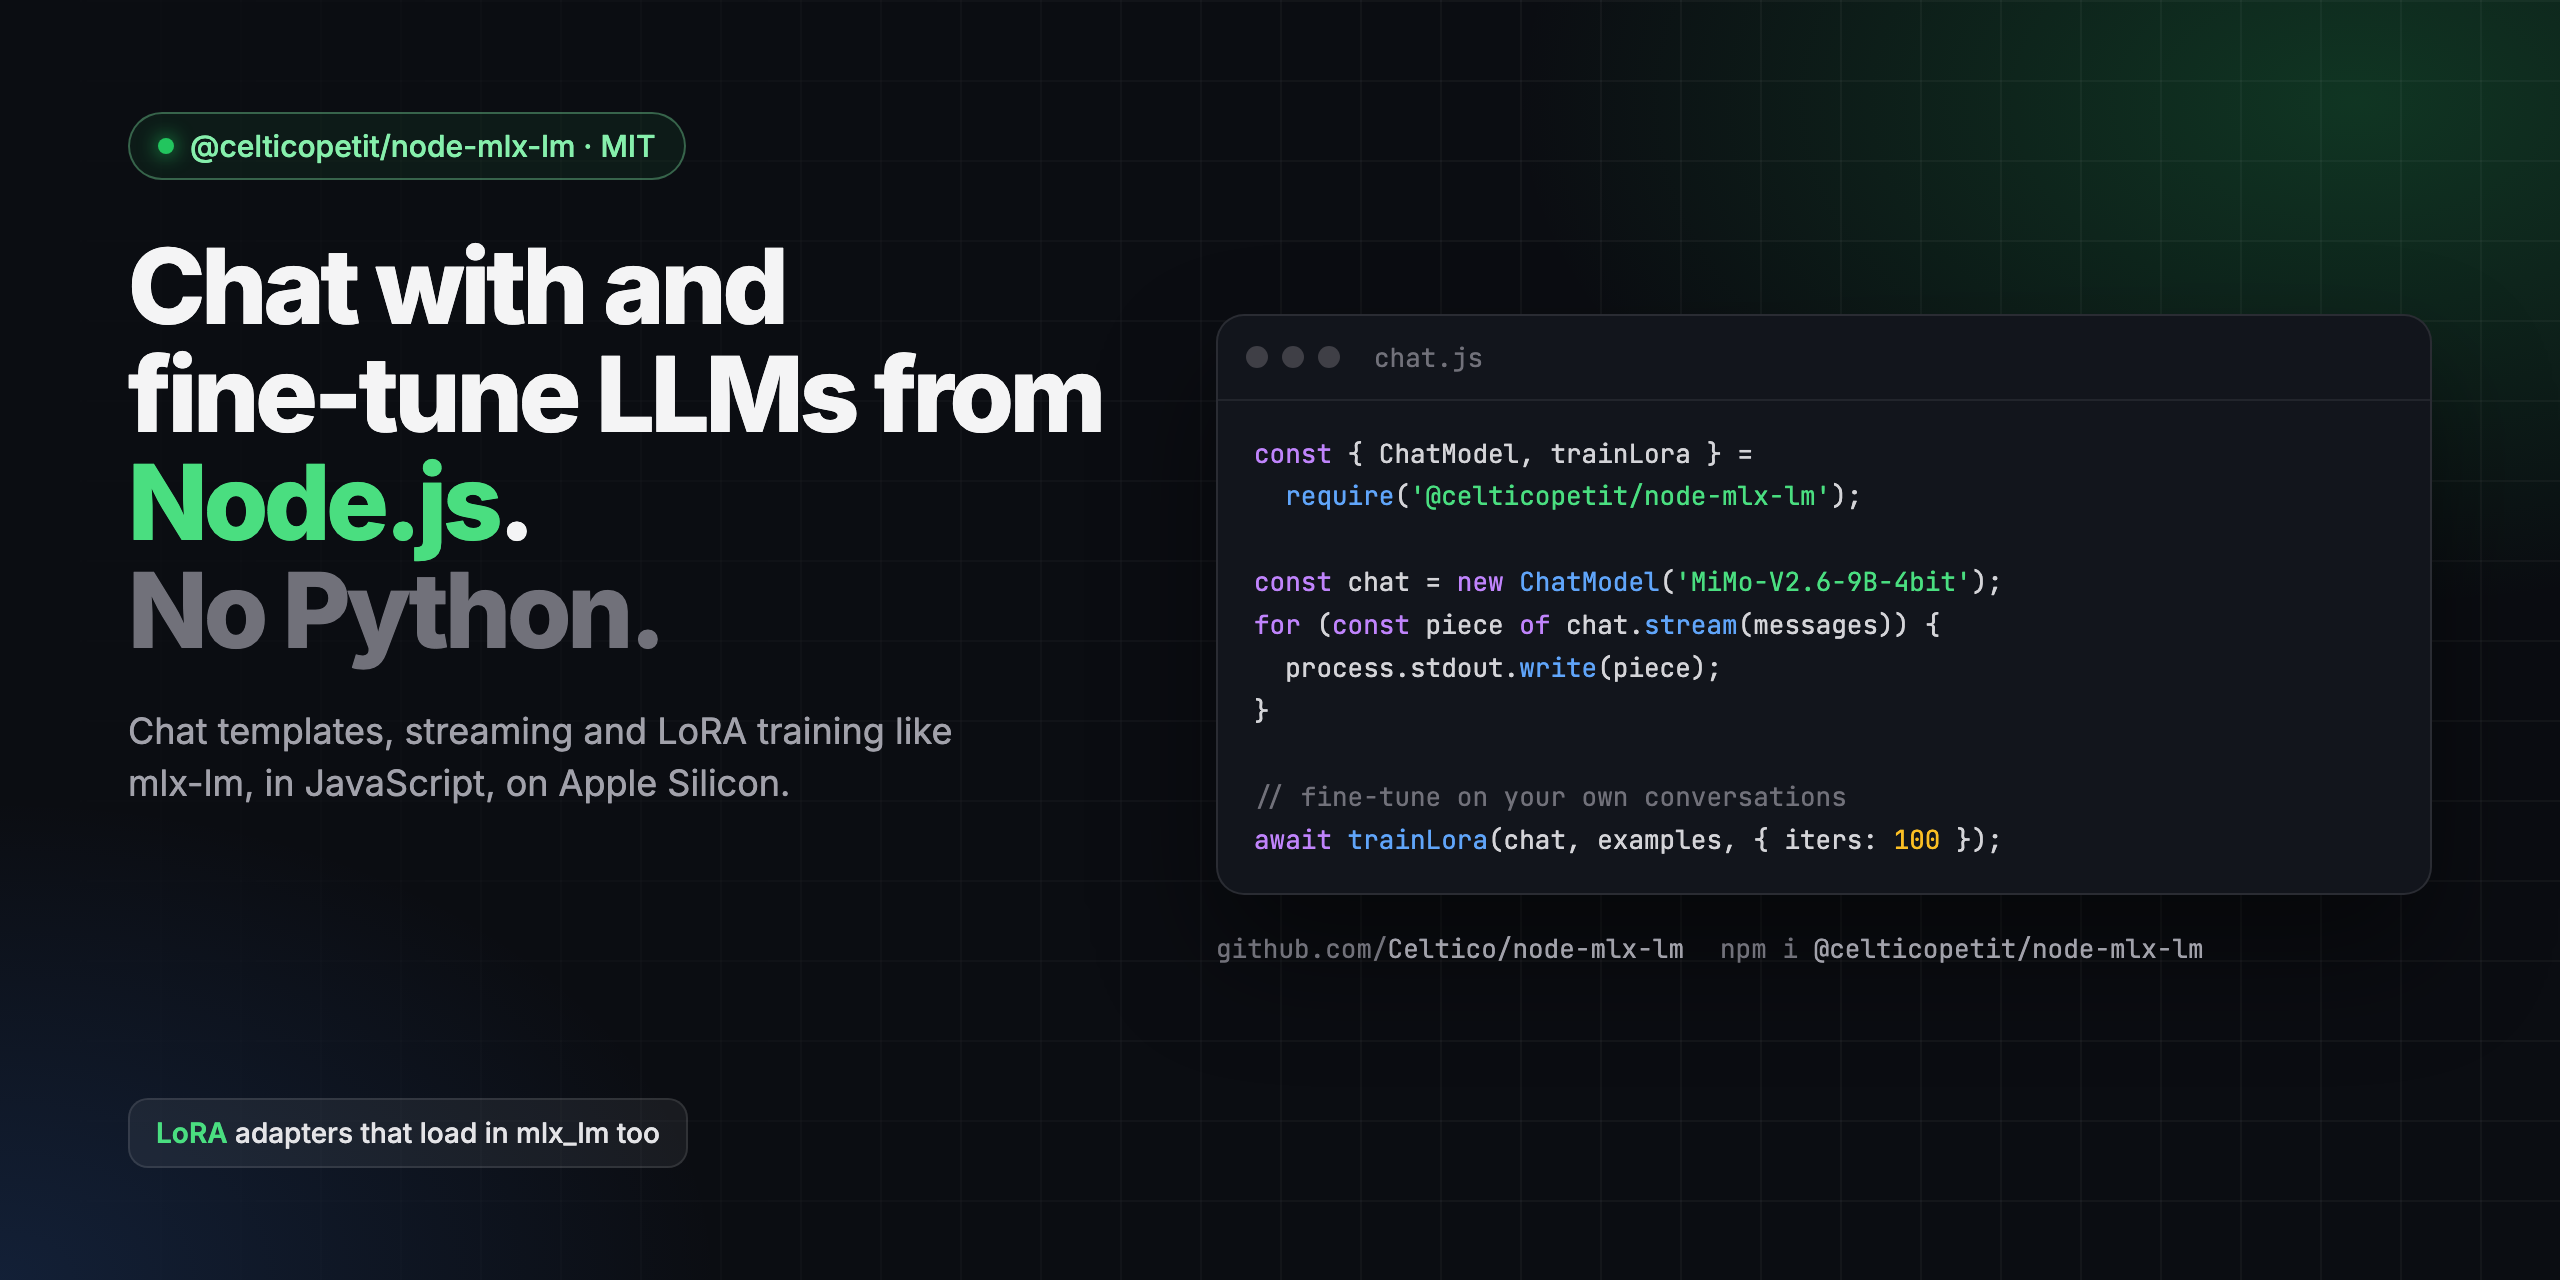
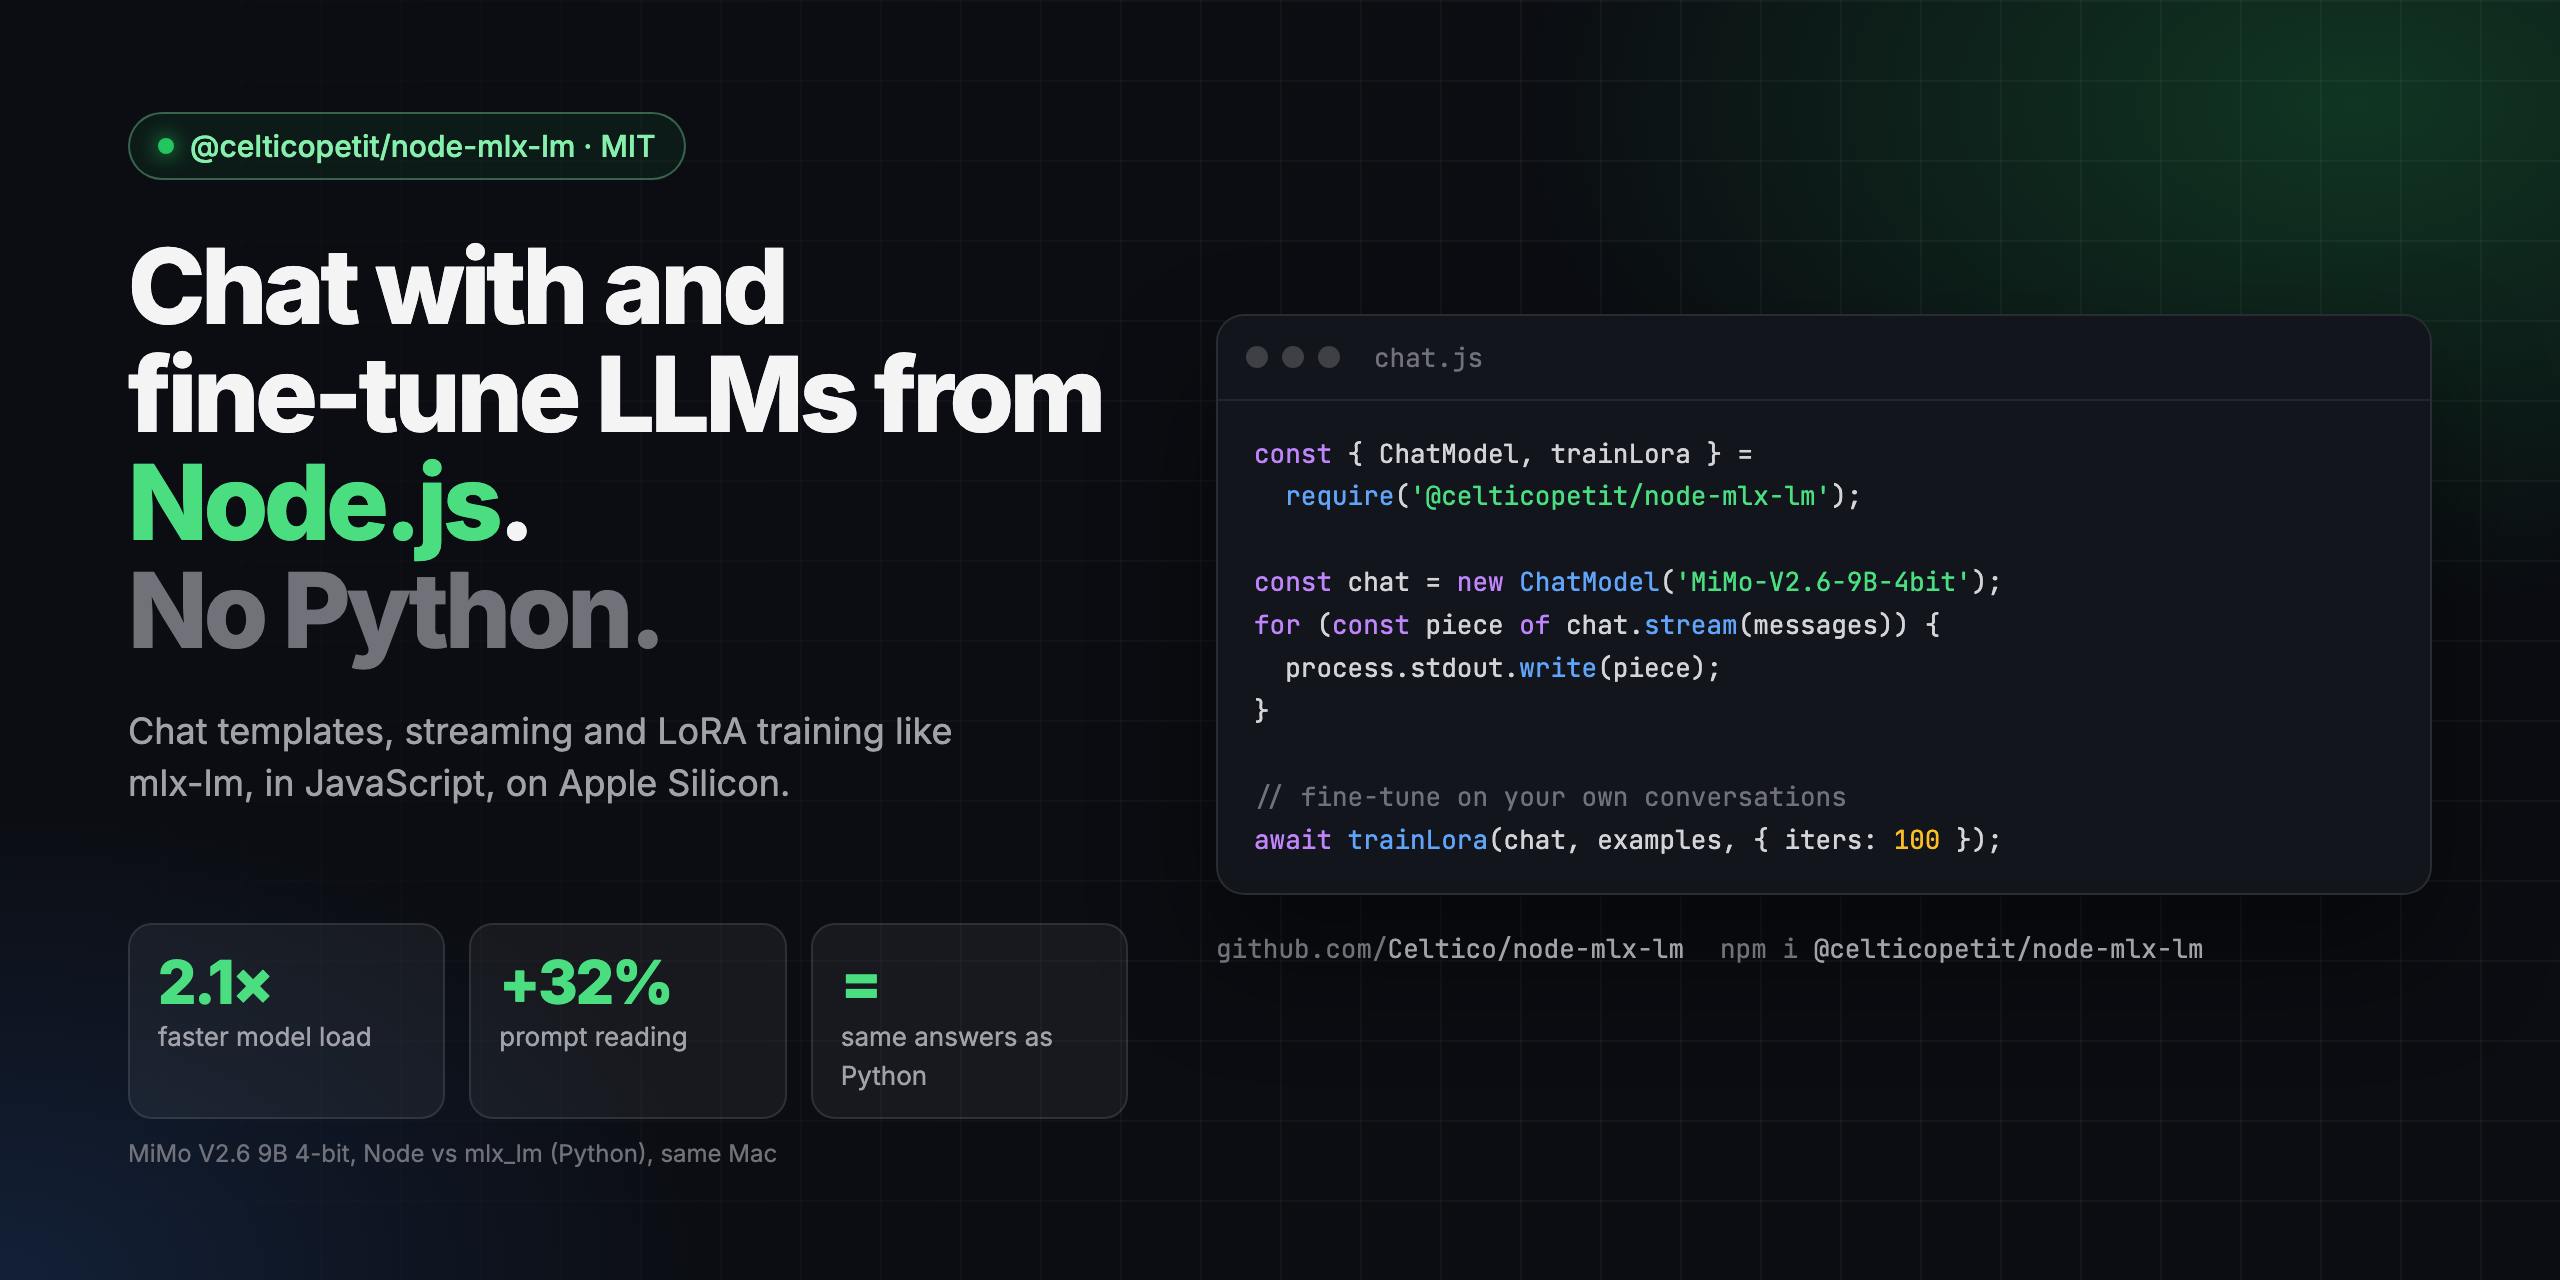
Landing and cover: real numbers from the engine benchmark (MiMo 9B, Node vs Python)

diff --git a/docs/index.html b/docs/index.html
@@ -72,13 +72,32 @@
   .arrow { text-align: center; color: var(--dim); font-size: 13px; line-height: 1; }
   footer { border-top: 1px solid var(--line); padding: 30px 0 48px; color: var(--dim); font-size: 14px; display: flex; flex-wrap: wrap; gap: 10px 24px; justify-content: space-between; }
   @media (max-width: 760px) { .two { grid-template-columns: minmax(0,1fr); } nav .hide { display: none; } .actions > * { max-width: 100%; } }
+  .bench { display: grid; gap: 18px; }
+  .row { display: grid; grid-template-columns: 220px minmax(0,1fr) 150px; gap: 8px 18px; align-items: center; }
+  .row .m { font-size: 15px; color: var(--text); }
+  .row .m small { display: block; color: var(--dim); font-size: 13px; }
+  .bars { display: grid; gap: 6px; }
+  .bar2 { display: grid; grid-template-columns: 56px minmax(0,1fr) 116px; gap: 10px; align-items: center; font-size: 13px; color: var(--muted); }
+  .track { height: 9px; background: rgba(255,255,255,.06); border-radius: 99px; overflow: hidden; }
+  .fill { height: 100%; border-radius: 99px; background: #52525b; }
+  .node .fill { background: #22c55e; }
+  .bar2 .v { white-space: nowrap; text-align: right; font: 500 13px 'JetBrains Mono', monospace; color: var(--muted); }
+  .bar2.win .v { color: var(--accent); }
+  .row .verdict { font-size: 14px; font-weight: 600; color: var(--accent); }
+  .row .verdict.even { color: var(--muted); font-weight: 500; }
+  .row .verdict.lose { color: var(--muted); font-weight: 500; }
+  .same { display: inline-flex; gap: 8px; align-items: center; color: var(--accent); font-weight: 600; margin-bottom: 22px; }
+  figure { margin-top: 30px; }
+  figure img { width: 100%; max-width: 760px; display: block; border-radius: 14px; border: 1px solid var(--line); }
+  figcaption { color: var(--dim); font-size: 13px; margin-top: 10px; }
+  @media (max-width: 760px) { .row { grid-template-columns: minmax(0,1fr); } }
 </style>
 </head>
 <body>
 <div class="wrap">
   <header class="top">
     <a class="brand" href="#">node<span>-</span>mlx<span>-</span>lm</a>
-    <nav><a class="hide" href="#chat">Chat</a><a class="hide" href="#lora">LoRA</a><a href="https://github.com/Celtico/node-mlx-lm">GitHub</a><a href="https://www.npmjs.com/package/@celticopetit/node-mlx-lm">npm</a></nav>
+    <nav><a class="hide" href="#chat">Chat</a><a class="hide" href="#lora">LoRA</a><a class="hide" href="#numbers">Benchmark</a><a href="https://github.com/Celtico/node-mlx-lm">GitHub</a><a href="https://www.npmjs.com/package/@celticopetit/node-mlx-lm">npm</a></nav>
   </header>
 
   <div class="hero">
@@ -167,6 +186,21 @@ chat.model.<span class="fn">loadAdapters</span>(<span class="st">'./adapters'</s
         </ol>
       </div>
     </div>
+  </section>
+
+  <section id="numbers">
+    <h2>Real numbers: Node vs Python</h2>
+    <p class="sub">MiMo V2.6 9B 4-bit on the same Apple Silicon Mac. Each engine loads the same model in turn: node-mlx-lm on mlx-node against mlx_lm in Python. Median of 3 rounds, measured with the engine benchmark of the Agentic Coder app.</p>
+    <div class="same">✓ Both engines give the same answer, token for token (greedy)</div>
+    <div class="bench">
+      <div class="row"><div class="m">Model load<small>seconds · less is better</small></div><div class="bars"><div class="bar2 node win"><span>Node</span><div class="track"><div class="fill" style="width:48.5%"></div></div><span class="v">3.2 s</span></div><div class="bar2  "><span>Python</span><div class="track"><div class="fill" style="width:100.0%"></div></div><span class="v">6.6 s</span></div></div><div class="verdict ">2.1× faster</div></div>
+      <div class="row"><div class="m">Reading a long prompt<small>4,240 tokens · tok/s · more is better</small></div><div class="bars"><div class="bar2 node win"><span>Node</span><div class="track"><div class="fill" style="width:100.0%"></div></div><span class="v">211.32 tok/s</span></div><div class="bar2  "><span>Python</span><div class="track"><div class="fill" style="width:75.9%"></div></div><span class="v">160.43 tok/s</span></div></div><div class="verdict ">+32%</div></div>
+      <div class="row"><div class="m">Generation<small>tok/s · more is better</small></div><div class="bars"><div class="bar2 node "><span>Node</span><div class="track"><div class="fill" style="width:96.3%"></div></div><span class="v">25.68 tok/s</span></div><div class="bar2  win"><span>Python</span><div class="track"><div class="fill" style="width:100.0%"></div></div><span class="v">26.68 tok/s</span></div></div><div class="verdict lose">Python 4% faster</div></div>
+      <div class="row"><div class="m">First token, short prompt<small>seconds · less is better</small></div><div class="bars"><div class="bar2 node win"><span>Node</span><div class="track"><div class="fill" style="width:96.8%"></div></div><span class="v">0.241 s</span></div><div class="bar2  "><span>Python</span><div class="track"><div class="fill" style="width:100.0%"></div></div><span class="v">0.249 s</span></div></div><div class="verdict ">3% faster</div></div>
+      <div class="row"><div class="m">Follow-up with prompt cache<small>first token, seconds · less is better</small></div><div class="bars"><div class="bar2 node win"><span>Node</span><div class="track"><div class="fill" style="width:92.3%"></div></div><span class="v">0.25 s</span></div><div class="bar2  "><span>Python</span><div class="track"><div class="fill" style="width:100.0%"></div></div><span class="v">0.271 s</span></div></div><div class="verdict ">8% faster</div></div>
+      <div class="row"><div class="m">Peak memory<small>GB · less is better</small></div><div class="bars"><div class="bar2 node "><span>Node</span><div class="track"><div class="fill" style="width:100.0%"></div></div><span class="v">9.898 GB</span></div><div class="bar2  "><span>Python</span><div class="track"><div class="fill" style="width:100.0%"></div></div><span class="v">9.899 GB</span></div></div><div class="verdict even">Same</div></div>
+    </div>
+    <figure><img src="benchmark.jpg" alt="Engine benchmark in the Agentic Coder app: Node 5, Python 1, both engines give the same answer" loading="lazy"><figcaption>The same run in the app, in Catalan: Node wins 5 of the 6 measures.</figcaption></figure>
   </section>
 
   <section>
